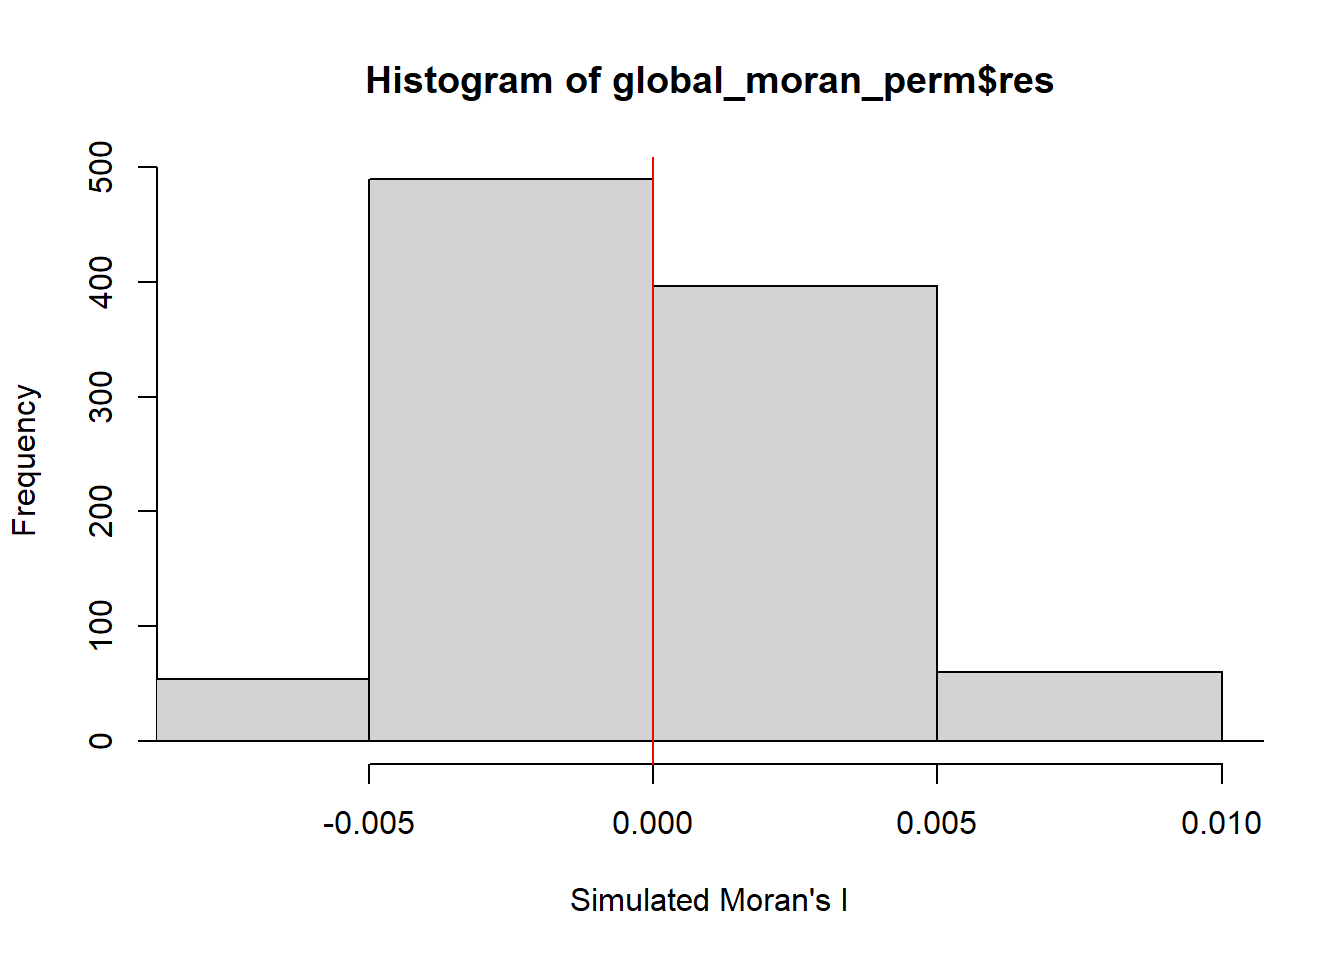
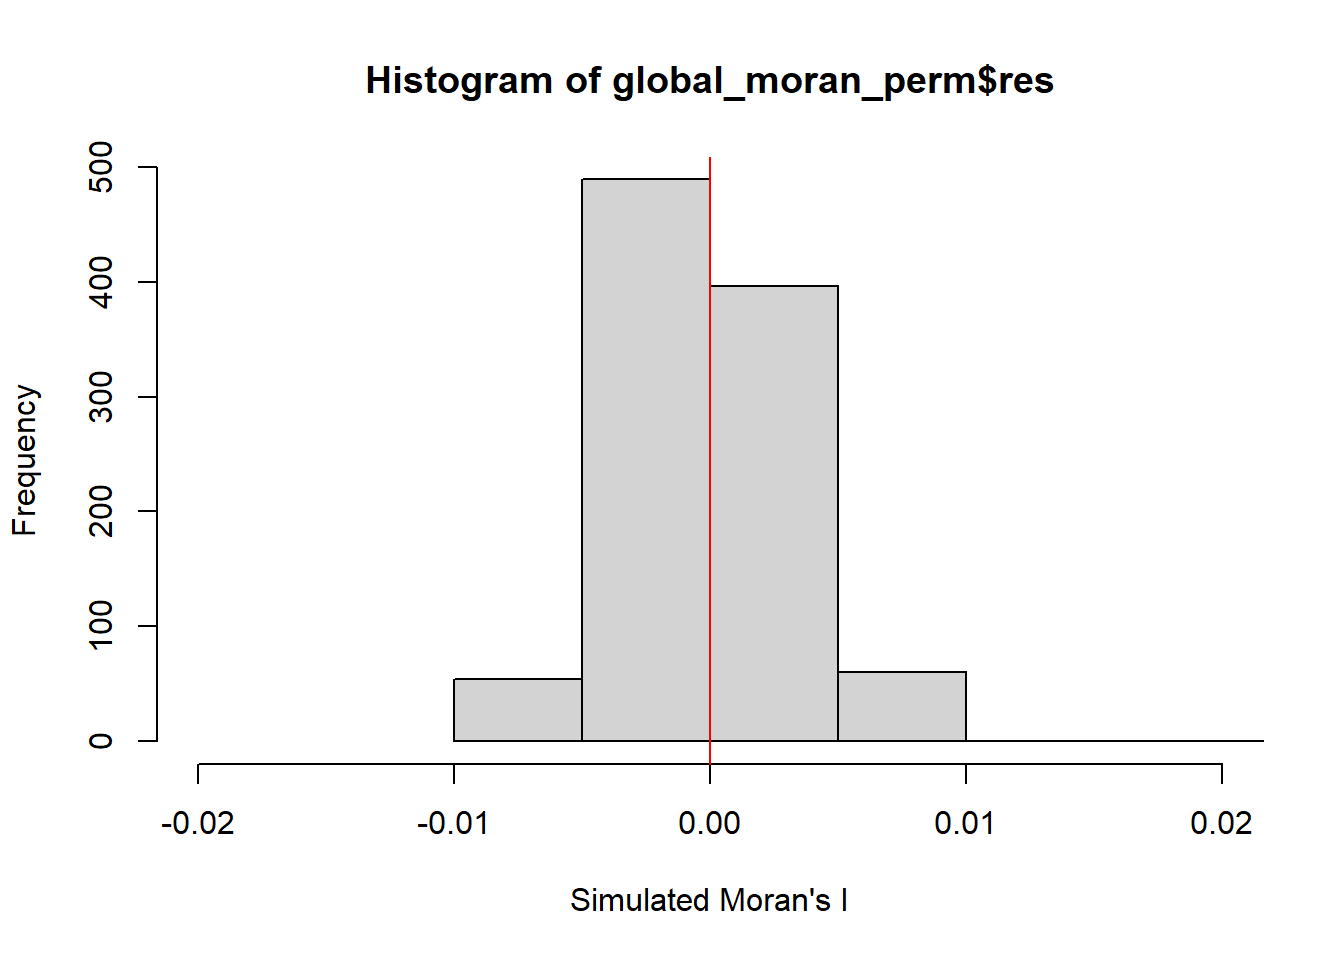
Take Home Ex 2 (Finale 2)

diff --git a/_site/Take-home_Ex/Take-home_Ex02/Take-home_Ex02.html b/_site/Take-home_Ex/Take-home_Ex02/Take-home_Ex02.html
@@ -1284,7 +1284,7 @@ alternative hypothesis: two.sided</code></pre>
 <span id="cb73-2"><a href="#cb73-2" aria-hidden="true" tabindex="-1"></a>     <span class="at">freq=</span><span class="cn">TRUE</span>, </span>
 <span id="cb73-3"><a href="#cb73-3" aria-hidden="true" tabindex="-1"></a>     <span class="at">breaks=</span><span class="dv">50</span>, </span>
 <span id="cb73-4"><a href="#cb73-4" aria-hidden="true" tabindex="-1"></a>     <span class="at">xlab=</span><span class="st">"Simulated Moran's I"</span>,</span>
-<span id="cb73-5"><a href="#cb73-5" aria-hidden="true" tabindex="-1"></a>     <span class="at">xlim=</span><span class="fu">c</span>(<span class="sc">-</span><span class="fl">0.008</span>,<span class="fl">0.01</span>))</span>
+<span id="cb73-5"><a href="#cb73-5" aria-hidden="true" tabindex="-1"></a>     <span class="at">xlim=</span><span class="fu">c</span>(<span class="sc">-</span><span class="fl">0.02</span>,<span class="fl">0.02</span>))</span>
 <span id="cb73-6"><a href="#cb73-6" aria-hidden="true" tabindex="-1"></a><span class="fu">abline</span>(<span class="at">v=</span><span class="dv">0</span>, </span>
 <span id="cb73-7"><a href="#cb73-7" aria-hidden="true" tabindex="-1"></a>       <span class="at">col=</span><span class="st">"red"</span>) </span></code><button title="Copy to Clipboard" class="code-copy-button"><i class="bi"></i></button></pre></div>
 </details>
@@ -1546,8 +1546,8 @@ Geodetic CRS:  TWD97
 <ul>
 <li>This supports the findings from our LISA map and the initial distribution map, where the central area of Tainan City has a higher dengue cluster (higher number of dengue cases)</li>
 </ul></li>
-<li><p>There are a few smaller hotspots (light green) surrounding the significant hotspot (dark green), as well as some other areas.</p></li>
-<li><p>The areas towards the sides of the map has a number of coldspots (orange), with gi_star value between -5 to 0, which indicates there is a low dengue cluster.</p></li>
+<li><p>There are a few smaller hotspots (light green) scattered around the middle of the map.</p></li>
+<li><p>The areas towards the sides of the map has a number of coldspots (light orange), with gi_star value between -5 to 0, which indicates there is a low dengue cluster.</p></li>
 </ul>
 <p>Let’s find the details of the hotspot and coldspot, which we will be using it in 5.2 in analysing emerging hotspots</p>
 <div class="cell">
@@ -1568,7 +1568,7 @@ Geodetic CRS:  TWD97
 <pre><code>Hotspot with the highest gi_star and p_sim &lt; 0.05: 溪墘里 溪墘里 溪墘里 溪墘里 溪墘里 溪墘里 溪墘里 溪墘里 溪墘里 溪墘里 溪墘里 溪墘里 溪墘里 溪墘里 溪墘里 </code></pre>
 </div>
 </div>
-<p>So, 大興里 is the hotspot. :)</p>
+<p>So, 溪墘里 is the hotspot. :)</p>
 </section>
 </section>
 <section id="analysing-emerging-hotspot" class="level3">
@@ -1641,7 +1641,7 @@ Geodetic CRS:  TWD97
 <summary>Code</summary>
 <div class="sourceCode cell-code" id="cb90"><pre class="sourceCode r code-with-copy"><code class="sourceCode r"><span id="cb90-1"><a href="#cb90-1" aria-hidden="true" tabindex="-1"></a>cbg <span class="ot">&lt;-</span> gi_stars <span class="sc">%&gt;%</span> </span>
 <span id="cb90-2"><a href="#cb90-2" aria-hidden="true" tabindex="-1"></a>  <span class="fu">ungroup</span>() <span class="sc">%&gt;%</span> </span>
-<span id="cb90-3"><a href="#cb90-3" aria-hidden="true" tabindex="-1"></a>  <span class="fu">filter</span>(VILLNAME <span class="sc">==</span> <span class="st">"大興里"</span>) <span class="sc">|&gt;</span> </span>
+<span id="cb90-3"><a href="#cb90-3" aria-hidden="true" tabindex="-1"></a>  <span class="fu">filter</span>(VILLNAME <span class="sc">==</span> <span class="st">"溪墘里"</span>) <span class="sc">|&gt;</span> </span>
 <span id="cb90-4"><a href="#cb90-4" aria-hidden="true" tabindex="-1"></a>  <span class="fu">select</span>(VILLNAME, epi_week_num, gi_star)</span></code><button title="Copy to Clipboard" class="code-copy-button"><i class="bi"></i></button></pre></div>
 </details>
 </div>
